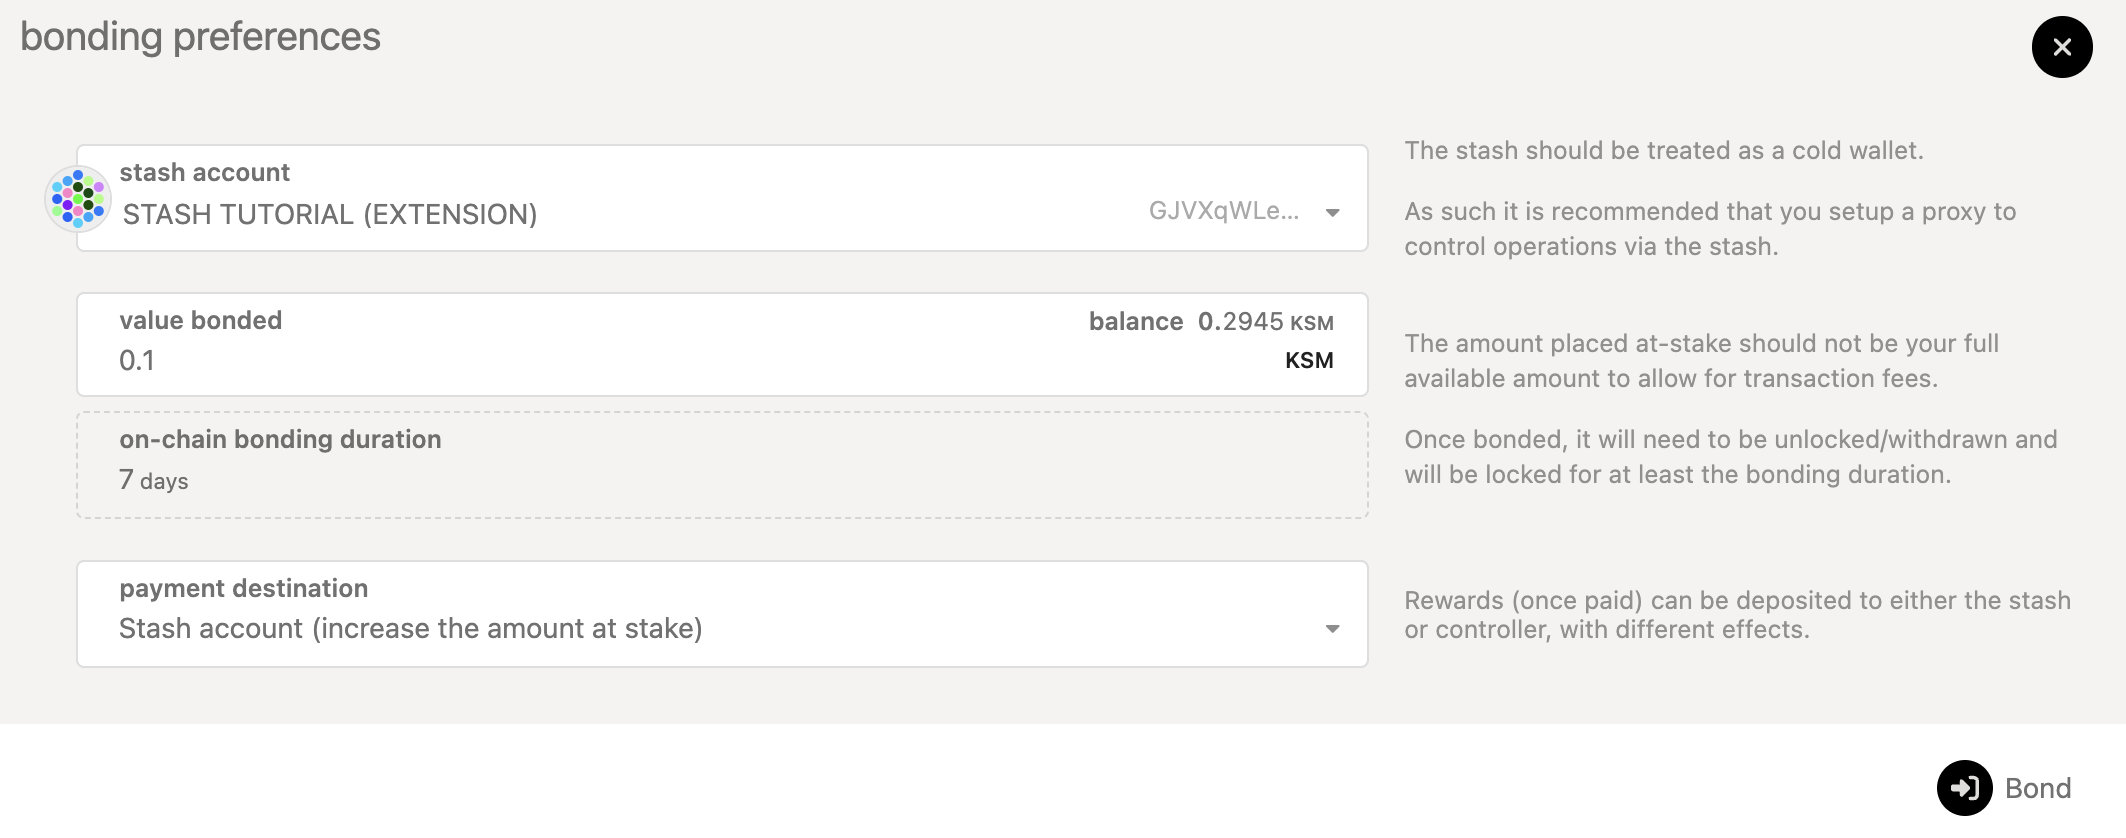
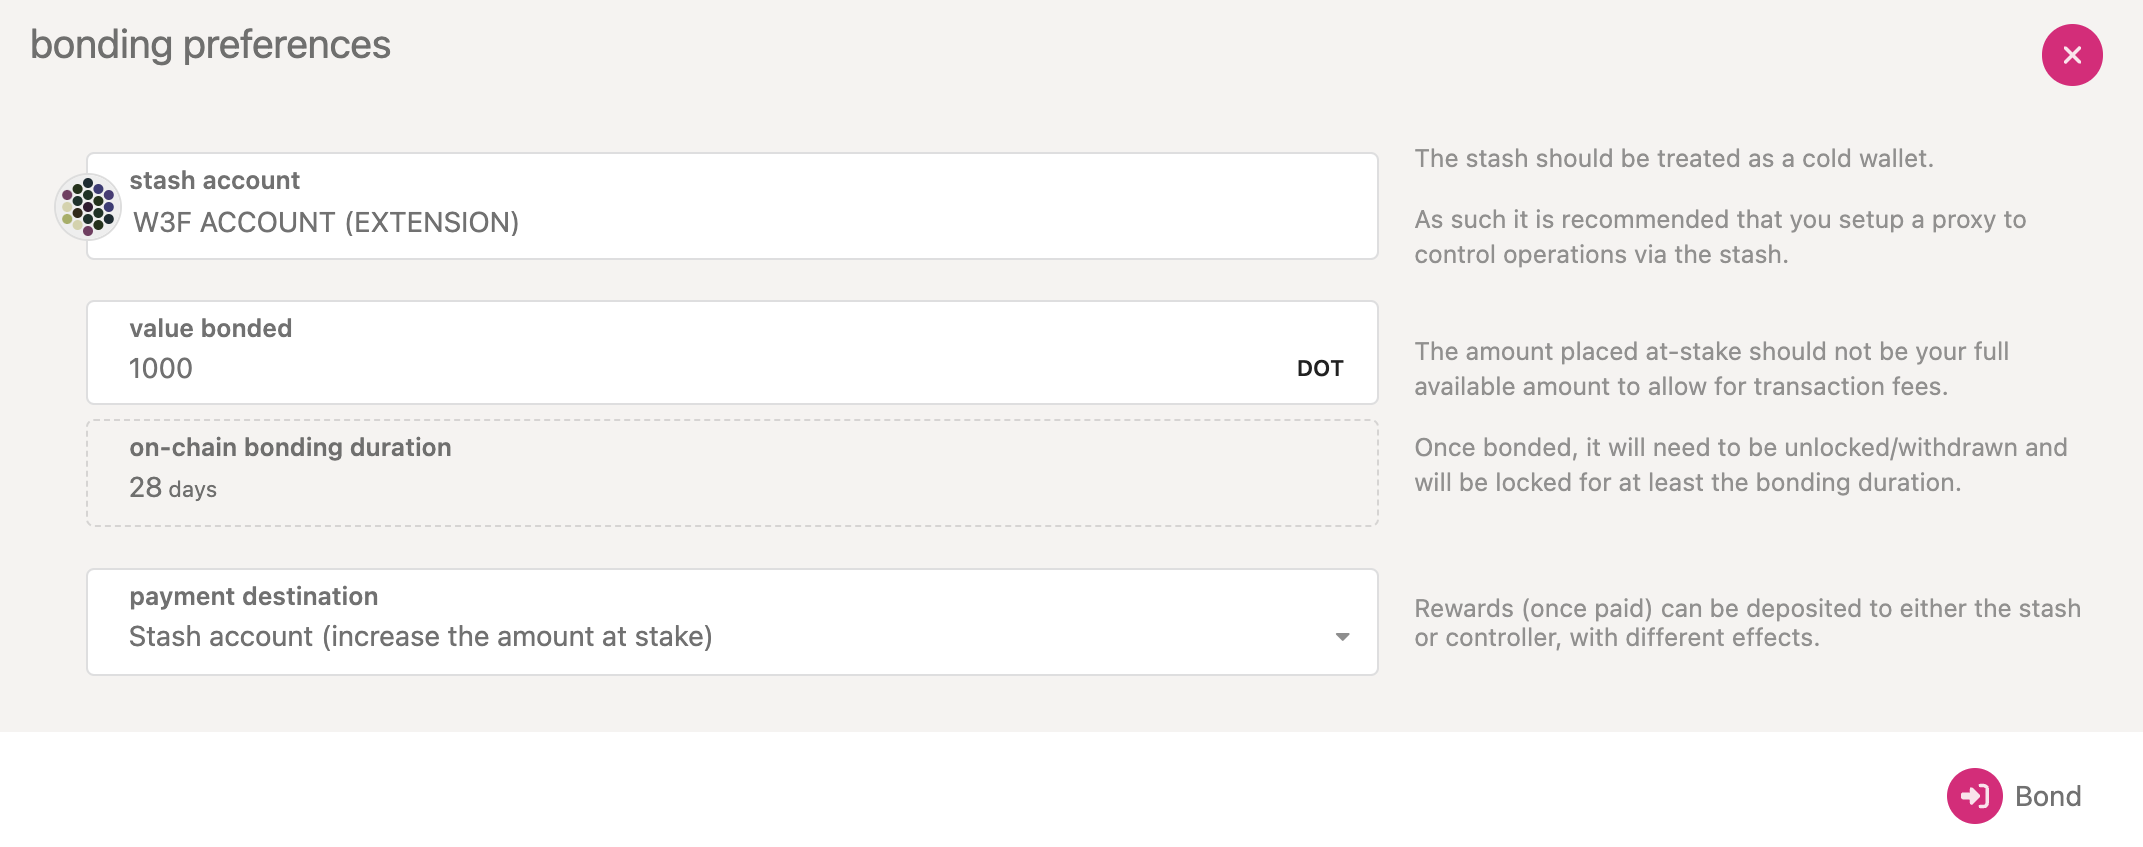
Update Validator Maintain Guide

diff --git a/docs/maintain/maintain-guides-how-to-validate-polkadot.md b/docs/maintain/maintain-guides-how-to-validate-polkadot.md
@@ -546,37 +546,43 @@ a non-canonical chain.
 
 ## Bond DOT
 
-It is highly recommended that you set a stash account and a staking proxy. For this, you will create
-two accounts and make sure each of them have at least enough funds to pay the fees for making
-transactions. Keep most of your funds in the stash account since it is meant to be the custodian of
-your staking funds.
+To start a validator instance on Polkadot or Kusama, the minimum bond required is 0 DOT/KSM. But to
+enter the active validator set and be eligible to earn rewards, your validator node should be
+nominated by a minimum number of DOT/KSM tokens. On Polkadot, the minimum stake backing a validator
+in the active set is
+{{ polkadot: <MinimumStake network="polkadot" defaultValue={17314855524834056}/> :polkadot }}
+{{ kusama: <MinimumStake network="polkadot" defaultValue={17314855524834056}/> :kusama }} in the era
+{{ polkadot: <RPC network="polkadot" path="query.staking.currentEra" defaultValue="998"/>. :polkadot }}
+{{ kusama: <RPC network="polkadot" path="query.staking.currentEra" defaultValue="998"/>. :kusama }}
+
+On Kusama, the minimum stake backing a validator in the active set is
+{{ kusama: <MinimumStake network="kusama" defaultValue={5288388652143741} /> :kusama }}
+{{ polkadot: <MinimumStake network="kusama" defaultValue={5288388652143741} /> :polkadot }} in the
+era
+{{ kusama: <RPC network="kusama" path="query.staking.currentEra" defaultValue="4838"/>. :kusama }}
+{{ polkadot: <RPC network="kusama" path="query.staking.currentEra" defaultValue="4838"/>. :polkadot }}
+
+If you are validator who intends to get DOT/KSM nominations from the community, you will need to
+show some skin in the game. For that, you need to bond some DOT/KSM as own stake.
 
 :::info Controller accounts are deprecated
 
 Controller accounts are deprecated. For more information, see
 [this discussion](https://forum.polkadot.network/t/staking-controller-deprecation-plan-staking-ui-leads-comms/2748).
+It is highly recommended that you setup an account with a staking proxy, which can be used for
+issuing start and stop validating calls.
 
 :::
 
 Make sure not to bond all your DOT balance since you will be unable to pay transaction fees from
 your bonded balance.
 
-It is now time to set up our validator. We will do the following:
-
-- Bond the DOT of the Stash account. These DOT will be put at stake for the security of the network
-  and can be slashed.
-- Select the staking proxy. This is the account that will decide when to start or stop validating.
-
 First, go to the [Staking](https://polkadot.js.org/apps/#/staking/actions) section. Click on
 "Account Actions", and then the "+ Stash" button.
 
 ![bonding-JS-UI](../assets/JS-UI-bond.png)
 
-- **Stash account** - Select your Stash account. In this example, we will bond 1 DOT, where the
-  minimum bonding amount is 1. Make sure that your Stash account contains _at least_ this much. You
-  can, of course, stake more than this.
-- **Staking proxy account** - Select the staking proxy account created earlier. This account will
-  also need a small amount of DOT in order to start and stop validating.
+- **Stash account** - Select your Stash account (which is the acocunt with the DOT/KSM balance)
 - **Value bonded** - How much DOT from the Stash account you want to bond/stake. Note that you do
   not need to bond all of the DOT in that account. Also note that you can always bond _more_ DOT
   later. However, _withdrawing_ any bonded amount requires the duration of the unbonding period. On
@@ -584,8 +590,8 @@ First, go to the [Staking](https://polkadot.js.org/apps/#/staking/actions) secti
 - **Payment destination** - The account where the rewards from validating are sent. More info
   [here](../learn/learn-staking.md/#reward-distribution). Starting with runtime version v23 natively
   included in client version [0.9.3](https://github.com/paritytech/polkadot/releases/tag/v0.9.3),
-  payouts can go to any custom address. If you'd like to redirect payments to an account that is
-  neither the staking proxy nor the stash account, set one up. Note that it is extremely unsafe to
+  payouts can go to any custom address. If you'd like to redirect payments to an account that is not
+  the stash account, you can do it by entering the address here. Note that it is extremely unsafe to
   set an exchange address as the recipient of the staking rewards.
 
 Once everything is filled in properly, click `Bond` and sign the transaction with your Stash
@@ -598,8 +604,6 @@ After a few seconds, you should see an `ExtrinsicSuccess` message.
 Your bonded account will available under `Stashes`. You should now see a new card with all your
 accounts (note: you may need to refresh the screen). The bonded amount on the right corresponds to
 the funds bonded by the Stash account.
-
-![stash overview](../assets/JS-UI-stash-overview.png)
 
 ## Set Session Keys
 
